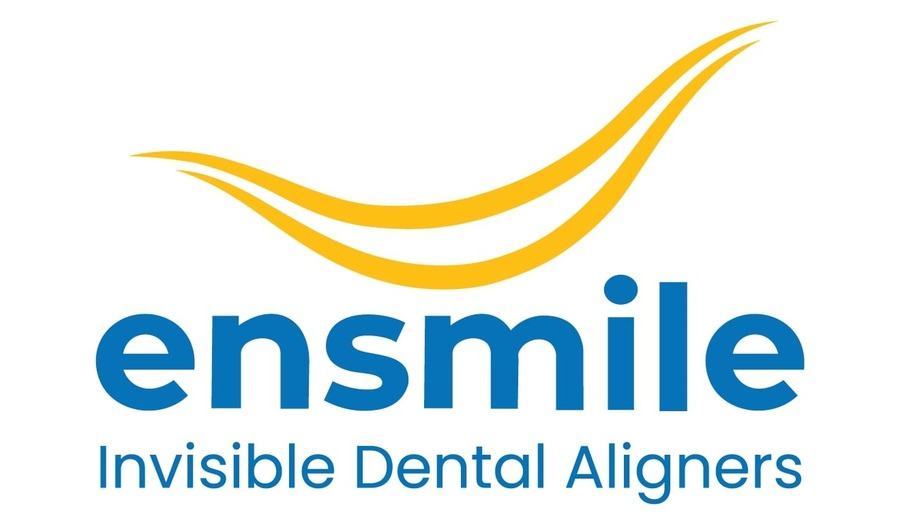
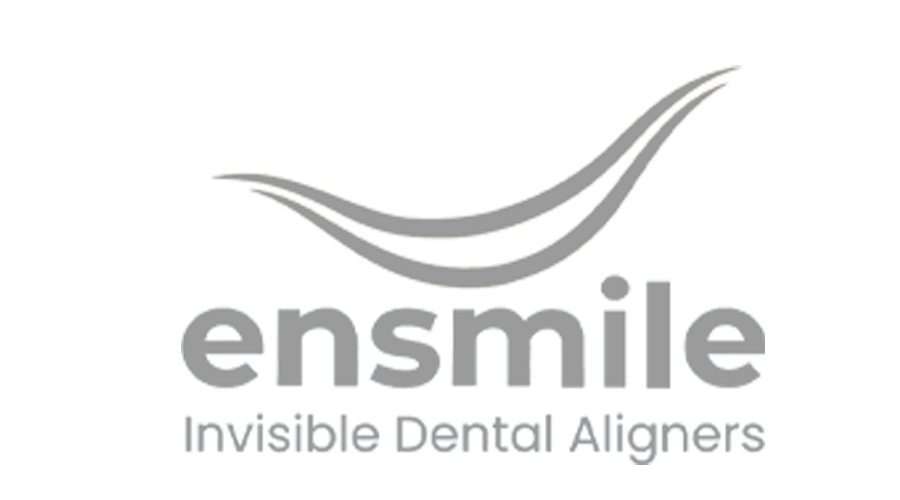
coorporation partner section modified

Changed region(s): [[0.0933, 0.03, 0.9022, 0.81], [0.0933, 0.81, 0.9022, 0.96]]

diff --git a/src/customer/sections/CoorporationPartners.jsx b/src/customer/sections/CoorporationPartners.jsx
@@ -46,8 +46,6 @@ const CoorporationPartners = () => {
                 style={{
                   width: "200px",
                   height: "auto",
-                  borderRadius: "0px",
-                  boxShadow: "0 4px 8px rgba(0, 0, 0, 0.1)",
                 }}
               />
             </Box>
